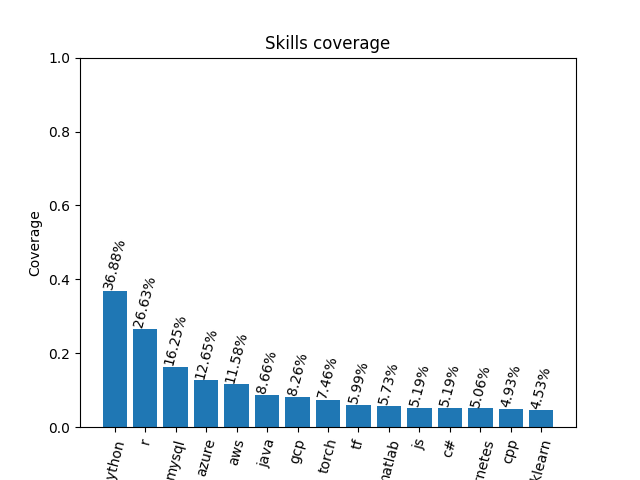
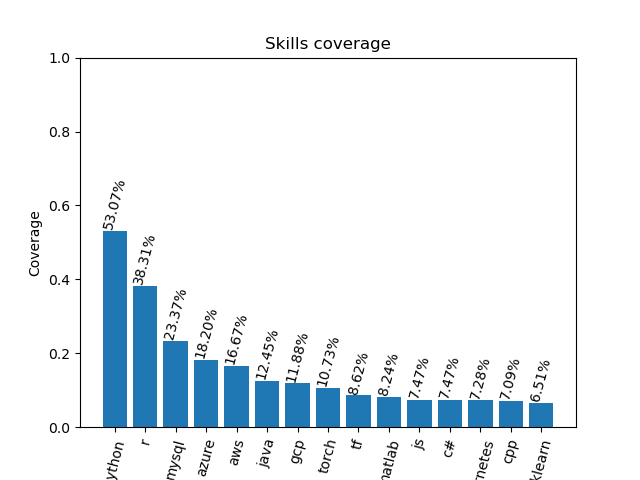
only vacancies where skills specified considered

Changed region(s): [[0.1562, 0.375, 0.875, 0.875], [0.4062, 0.0625, 0.625, 0.125], [0.0938, 0.875, 0.125, 0.9062]]

diff --git a/utils.py b/utils.py
@@ -30,15 +30,46 @@ def clean_up(jobs:pd.DataFrame, settings, save_as_new_file = False, save_to = No
         jobs.loc[i, "description"] = str(jobs.loc[i, "description"]).replace("About the job", "").strip().lower()
         jobs.loc[i, "skills"] = str(jobs.loc[i, "skills"]).replace(";", ",").strip().lower()
     jobs.drop(labels=list(jobs_to_exclude), axis="index", inplace=True)
-    jobs.reset_index(inplace=True)
+    jobs.reset_index(inplace=True, drop=True)
     if save_as_new_file:
         jobs.to_csv(save_to, sep=',', index=False)
 
     return jobs
-    
+
+def check_skill_in_vacancies(name, *fields):
+    for field in fields:
+        try:
+            index = str(field).index(name)
+            if index+len(name) >= len(field):
+                continue
+            next_character = field[index+len(name)]
+            if (" "+name in field and not next_character.isalpha()) or ", "+name+"," in field or  ","+name+"," in field:
+                return True
+        except ValueError:
+            continue
+    return False
+
+def filter_vacancies_accroding_skills_occurences(jobs:pd.DataFrame, settings):
+    indices_to_keep = set()
+    for i in range(len(jobs)):
+        _b = False
+        for skill in settings["skills"]: 
+            for name in skill:
+                if check_skill_in_vacancies(name, jobs.loc[i, "description"], jobs.loc[i, "skills"]):
+                    indices_to_keep.add(i)
+                    _b = True
+                    break
+            if _b:
+                break
+
+    res = jobs.loc[list(indices_to_keep)]
+    res.reset_index(inplace=True, drop=True)
+    return res
+
 if __name__ == "__main__":
     settings_path = "./settings.json"
     jobs = pd.read_csv("./jobs.csv")
     settings = read_settings_from_file(settings_path)
     jobs = clean_up(jobs, settings)
+    jobs = filter_vacancies_accroding_skills_occurences(jobs, settings)
     print(jobs)
